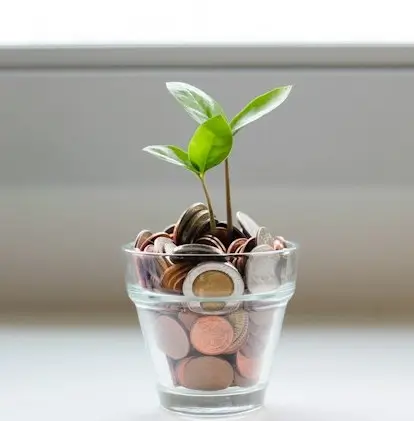
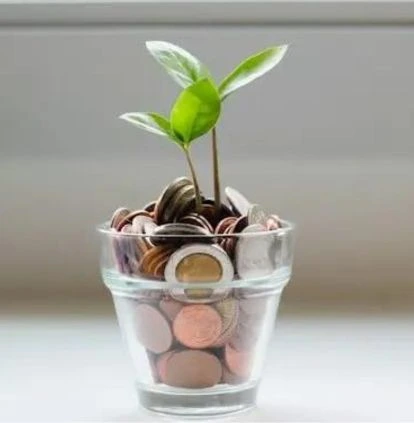
Styled the buttons on the homepage and also amended the first homepage guide image to remove the whitespace in the photo

diff --git a/assets/css/style.css b/assets/css/style.css
@@ -76,6 +76,7 @@ h2, h3, p {
     font-family: 'Hind Madurai', sans-serif;
 }
 
+
 .image-container {
     position: relative;
     max-width: 40%;
@@ -84,19 +85,23 @@ h2, h3, p {
     overflow: hidden;
     border: 2px solid #00ff4872;
     box-shadow: 0px 3px 3px #00ff4872;
-}
+} 
 
 button {
-
     font-size:larger;
-    color:#22577A;
+    color:white;
     border-radius:20px;
-    border-color:#0e2536 4;
+    border-color:#0e2536;
+    background-color:#38A3A5;
+    align-items: center;
+    transform: translate(80%, 70%);
+    margin:10px;
 }
 
 .photos-container {
     display: flex;
     justify-content: space-around;
+    align-items: center;
 }
 
 
@@ -106,7 +111,6 @@ button {
     left: 50%;
     transform: translate(-50%, -50%);
     text-align: center;
-    margin: 10px;
     background-color:rgba(255, 255, 255, 0.883);
     border-radius: 10px;
     padding: 5px;
